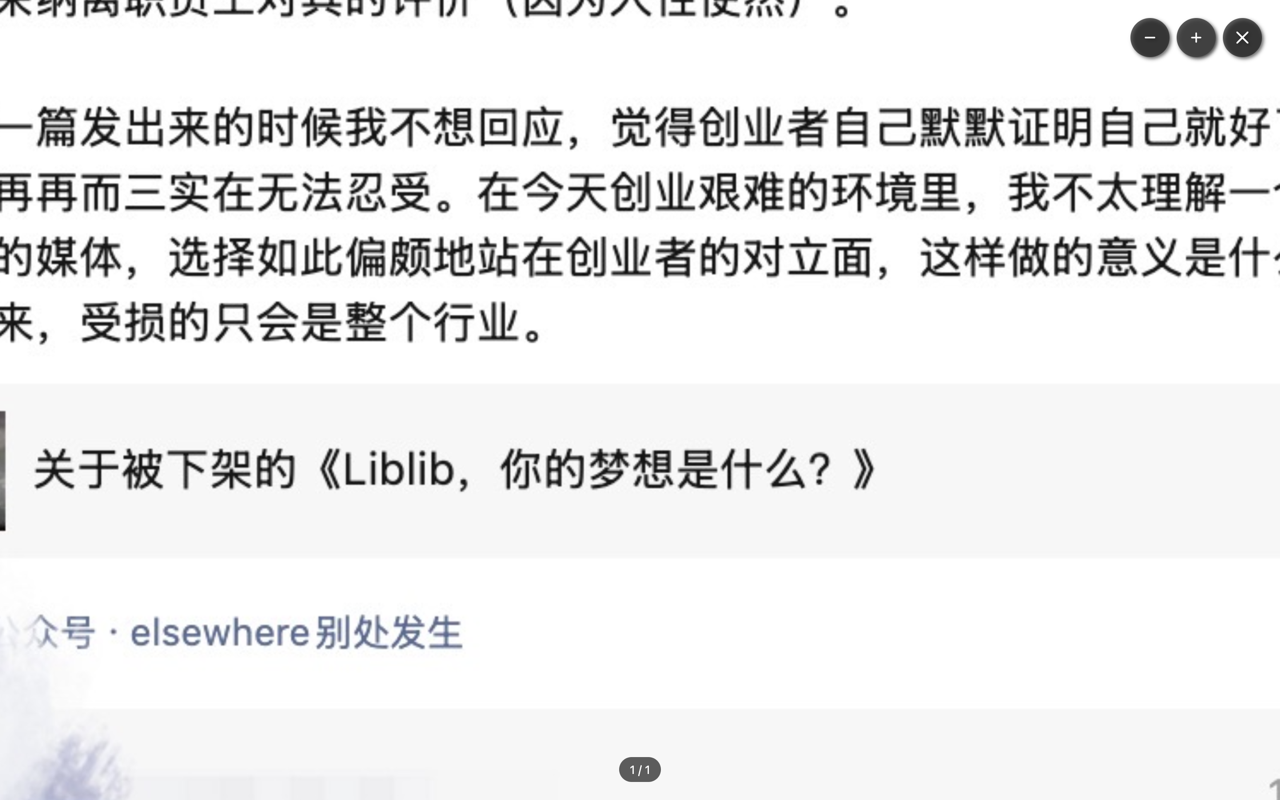
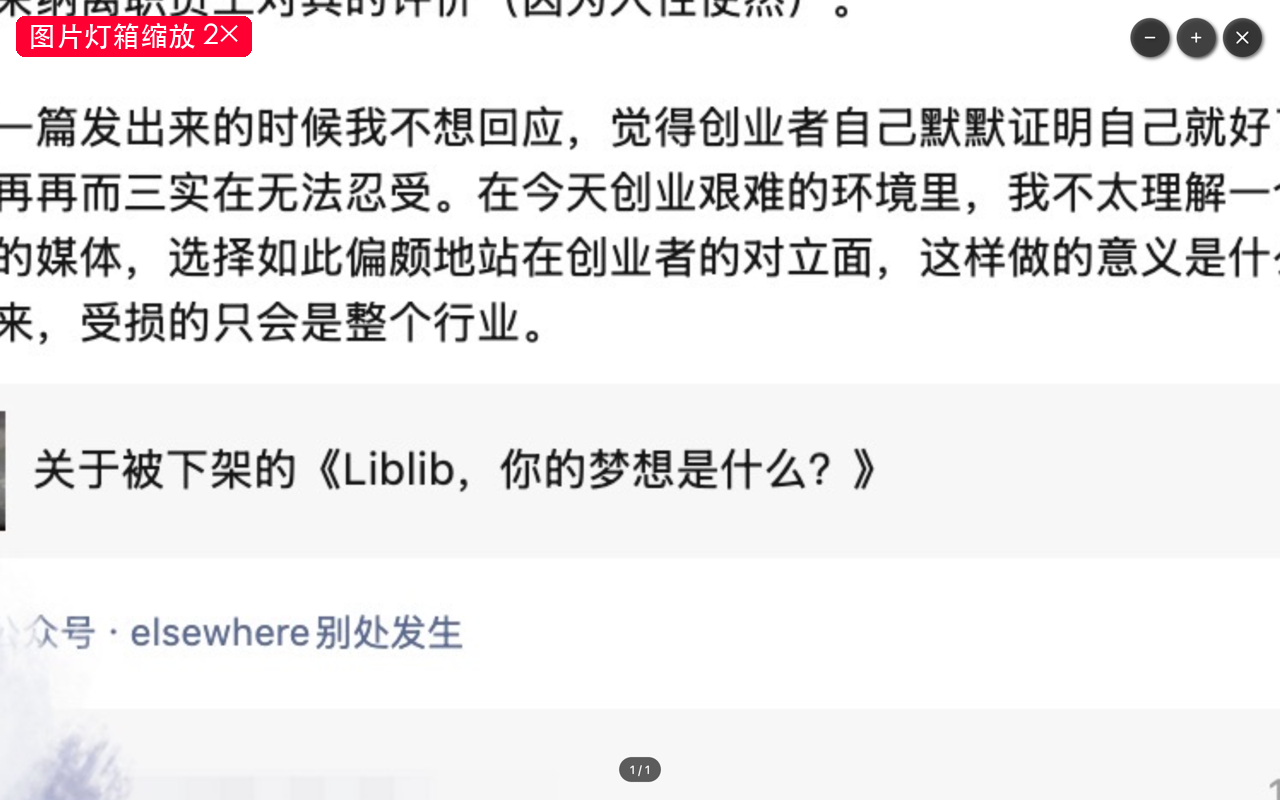
docs: label feature screenshots

Changed region(s): [[0.0, 0.0, 0.2188, 0.0938]]

diff --git a/chrome/store-assets/README.md b/chrome/store-assets/README.md
@@ -1,6 +1,6 @@
 # Chrome Web Store 截图
 
-`screenshots/` 中的图片为 Chrome Web Store 可用的 1280×800 PNG，均来自 Chrome 中的公开即刻页面：
+`screenshots/` 中的图片为 Chrome Web Store 可用的 1280×800 PNG，均来自 Chrome 中已登录的即刻页面，并在左上角使用红色标签说明功能：
 
 - `chrome-user-card.png`：用户资料悬浮卡片
 - `chrome-lightbox-zoom.png`：图片灯箱 2× 缩放控制

diff --git a/safari/store-assets/README.md b/safari/store-assets/README.md
@@ -1,6 +1,6 @@
 # Safari 商店截图
 
-`screenshots/` 中的图片为 macOS App Store 可用的 2880×1800 PNG，均来自 Safari 中的公开即刻页面：
+`screenshots/` 中的图片为 macOS App Store 可用的 2880×1800 PNG，均来自 Safari 中已登录的即刻页面，并在左上角使用红色标签说明功能：
 
 - `safari-user-card.png`：用户资料悬浮卡片
 - `safari-lightbox-zoom.png`：图片灯箱缩放控制
